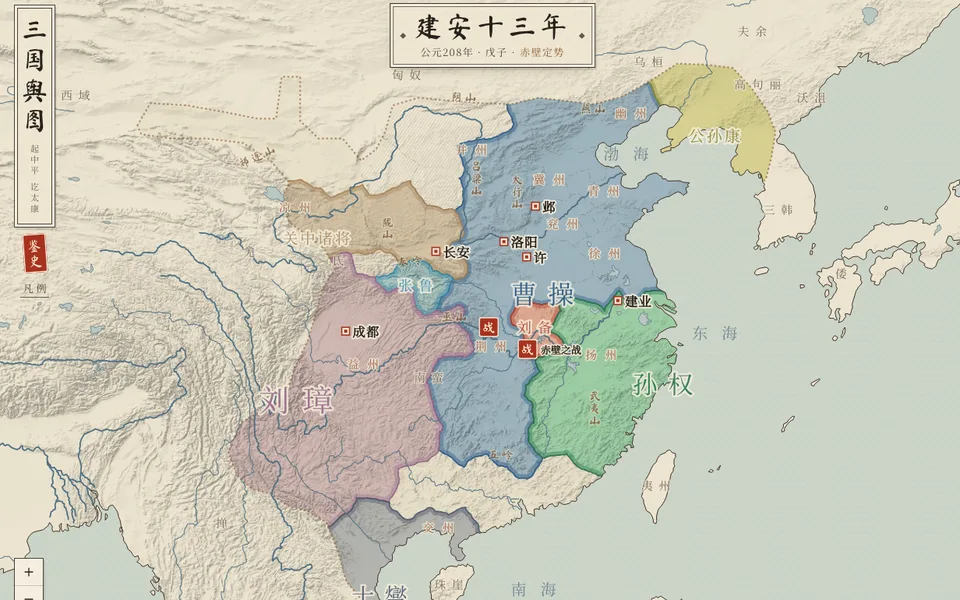
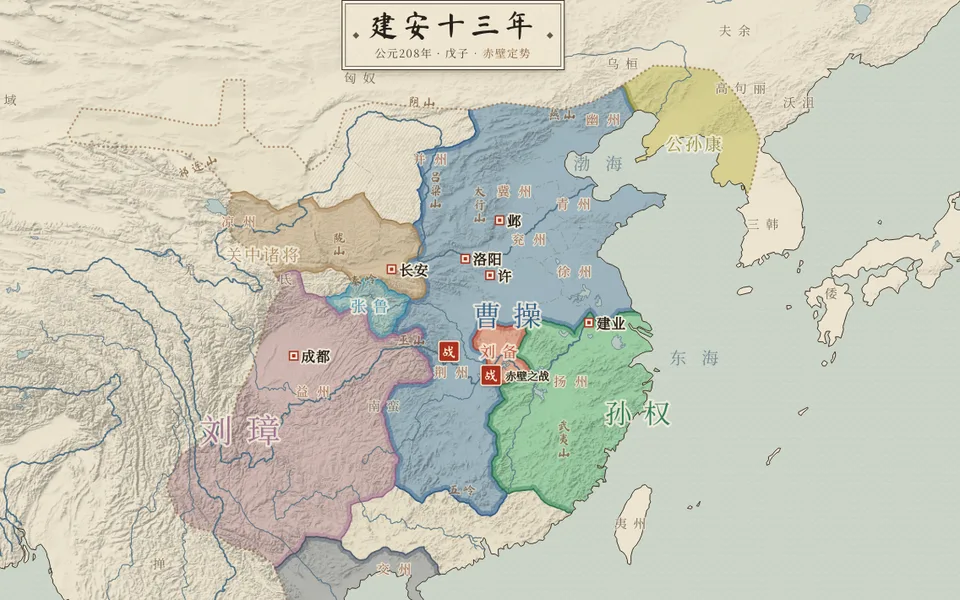
Re-crop Sanguo tool cover so the 新 tag clears the book title

diff --git a/public/tools/tools.js b/public/tools/tools.js
@@ -1,6 +1,6 @@
 // 在线工具清单：首页“工具”区和 /tools/ 共用。加工具只改这里。
 window.CD_TOOLS = [
-  { href: '/sanguo/', name: '三国舆图', note: '拖动年轴看 184—280 年疆域变迁，纪事、人物、战役推演与专题导览', img: '/tools/img/sanguo.webp', tag: '新' },
+  { href: '/sanguo/', name: '三国舆图', note: '拖动年轴看 184—280 年疆域变迁，纪事、人物、战役推演与专题导览', img: '/tools/img/sanguo.webp?v=2', tag: '新' },
   // 视频下载（/tools/video-download.html）暂不挂出：服务器是海外机房 IP，抖音、B 站、YouTube 都被拦，只测通了 TikTok
   { href: '/tools/pixel-art-lighter.html', name: '像素艺术打火机', note: '给像素画生成法线贴图，拖着光源实时打光（Pixel Art Lighter 汉化版）', img: '/tools/img/pixel-art-lighter.png', pixel: true },
 ];
